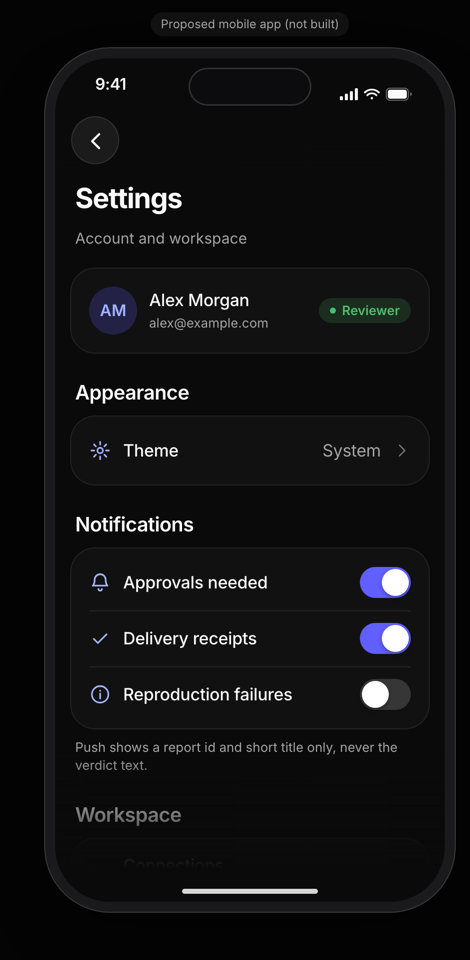
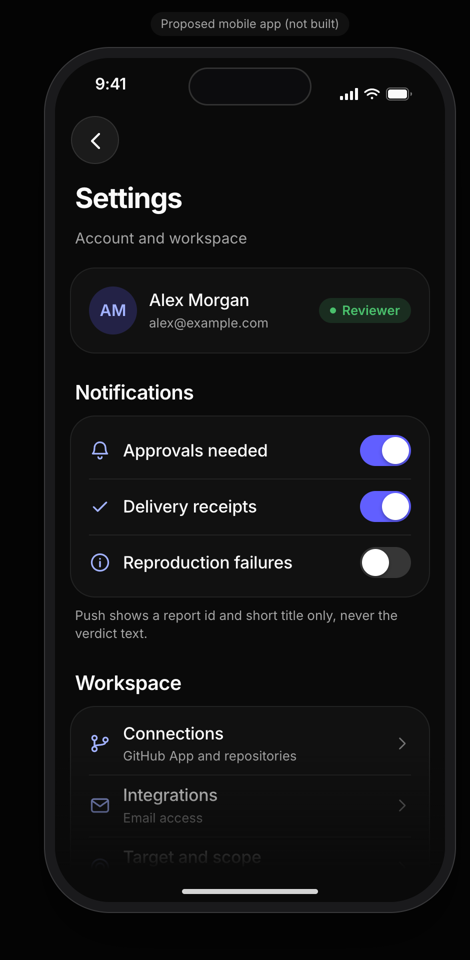
docs(site): describe the mobile app as dark only and drop its theme setting

diff --git a/docs/site/prototype.html b/docs/site/prototype.html
@@ -39,11 +39,7 @@
             box-shadow: 0 0 0 10px #1a1a1c, 0 0 0 11px #3a3a3c, 0 30px 60px rgba(0,0,0,.45); }
   .device.android { border-radius: 38px; box-shadow: 0 0 0 9px #1c1b1f, 0 0 0 10px #3a3940, 0 30px 60px rgba(0,0,0,.45); }
   .device.web { border-radius: 22px; box-shadow: 0 0 0 1px #3a3d45, 0 24px 50px rgba(0,0,0,.45); }
-  .plight .device { background: #fff; box-shadow: 0 0 0 10px #d1d1d6, 0 0 0 11px #aeaeb2, 0 30px 60px rgba(0,0,0,.18); }
-  .plight .device.android { box-shadow: 0 0 0 9px #cac4d0, 0 0 0 10px #938f99, 0 30px 60px rgba(0,0,0,.18); }
-  .plight .device.web { box-shadow: 0 0 0 1px #c4c8d0, 0 24px 50px rgba(0,0,0,.16); }
   .device iframe { position: absolute; inset: 0; width: 390px; height: 844px; border: 0; background: #0f0f10; will-change: transform; }
-  .plight .device iframe { background: #fff; }
   .device .shade { position: absolute; inset: 0; background: #000; opacity: 0; pointer-events: none; z-index: 1; }
   .bar { display: flex; flex-wrap: wrap; justify-content: center; align-items: center; gap: 8px; }
   .bar button { height: 36px; padding: 0 16px; border: 1px solid var(--border); border-radius: 18px; background: var(--card); color: var(--ink); font: 500 14px/1 var(--sans); display: flex; align-items: center; gap: 7px; cursor: pointer; }
@@ -66,7 +62,7 @@
 <body>
 <aside>
   <h1>Prototype</h1>
-  <p>Every mobile screen on iOS and Android, side by side and clickable, with each platform's motion. Tap in either phone and both follow. Haptics show as tags, and the gesture buttons play back swipe, sheet dismissal, pull to refresh, long press and a push notification. Switch on light theme, large text, a screen reader view or a touch target check. Scroll to go through the screens in journey order, or tap buttons, rows, tabs and back buttons to follow the flow.</p>
+  <p>Every mobile screen on iOS and Android, side by side and clickable, with each platform's motion. Tap in either phone and both follow. Haptics show as tags, and the gesture buttons play back swipe, sheet dismissal, pull to refresh, long press and a push notification. Switch on large text, a screen reader view or a touch target check. Scroll to go through the screens in journey order, or tap buttons, rows, tabs and back buttons to follow the flow.</p>
   <div id="list"></div>
 </aside>
 <main class="pane">
@@ -82,8 +78,6 @@
     <button id="replay"><svg viewBox="0 0 24 24"><path d="M4 12a8 8 0 1 0 2.4-5.7L4 8.6M4 4v4.6h4.6"/></svg>Replay</button>
     <button id="hot" aria-pressed="false">Tap targets</button>
     <button id="guides" aria-pressed="false">Spacing guides</button>
-    <span class="sep"></span>
-    <button id="light" aria-pressed="false">Light</button>
   </div>
   <div class="bar"><span class="lbl">Access</span>
     <button id="ax" aria-pressed="false">Large text</button><button id="sr" aria-pressed="false">Screen reader</button><button id="targets" aria-pressed="false">Target check</button>
@@ -129,7 +123,7 @@ const GROUPS = [
     ['m18', 'OTP verify', 'Type six digits and the sixth verifies and opens Settings · Resend code shows a toast'],
   ]],
   ['Settings and public', [
-    ['m19', 'Settings', 'Switches flip · Theme cycles · Terms and Privacy policy open the legal pages · Sign out returns to Sign in · the tab bar switches tabs'],
+    ['m19', 'Settings', 'Switches flip · Terms and Privacy policy open the legal pages · Sign out returns to Sign in · the tab bar switches tabs'],
     ['m22', 'Target and scope', 'Read only · Back returns to Connection detail'],
     ['m23', 'Inbox', 'An Approval needed message opens Sign the verdict · the tab bar switches tabs'],
     ['m20', 'Submit a report', 'Submit report shows a toast and returns to Home · Cancel returns to Home'],
@@ -163,7 +157,7 @@ const INFO_C = {
   m16: 'Email opens Email access · GitHub opens Connections · Back returns to Settings',
   m17: 'Add reviewer appends a pending row · Verify with a code opens the code screen · Back returns to Integrations',
   m18: 'Type six digits and the sixth verifies, shows a toast and returns to Email access · Back returns to Email access',
-  m19: 'Switches flip · Theme cycles · Connections, Integrations and Target and scope open those screens · Privacy and Terms open the legal pages · Sign out returns to Sign in · Back returns to Home',
+  m19: 'Switches flip · Connections, Integrations and Target and scope open those screens · Privacy and Terms open the legal pages · Sign out returns to Sign in · Back returns to Home',
   m22: 'Read only · Back returns to wherever you came from',
   m23: 'A Needs you item opens Sign the verdict · a delivery receipt opens Verdict approved · Back returns to Home',
   m20: 'Fill the fields, pick target material in the sheet, then Submit opens Contact verify · X returns to Sign in',
@@ -180,7 +174,7 @@ const PFS = DEVICE ? [DEVICE] : ['ios', 'android'];
 const DEV = Object.fromEntries(PFS.map(p => [p, document.getElementById('dev-' + p)]));
 const devices = PFS.map(p => DEV[p]);
 const REDUCED = matchMedia('(prefers-reduced-motion: reduce)').matches;
-const opts = { hot: false, guides: false, light: false, ax: false, sr: false, targets: false };
+const opts = { hot: false, guides: false, ax: false, sr: false, targets: false };
 // One design: the Variant C screens in screens/. INFO_C and DEMOS_BY keep their variant keys so a future variant can slot back in.
 const variant = 'c';
 const FOLDER = { c: 'screens' };
@@ -202,7 +196,7 @@ document.getElementById('list').innerHTML = GROUPS.map(([g, items]) => `<h2>${g}
 document.getElementById('list').onclick = e => { const b = e.target.closest('button'); if (b) jump(b.dataset.id); };
 
 let cur = null, busy = false, frames = [], stack = [], curKind = 'push';
-const src = (id, pf) => `${FOLDER[variant]}/${id}.html?embed&platform=${pf}${opts.guides ? '&guides' : ''}${opts.hot ? '&hot' : ''}${opts.light ? '&theme=light' : ''}${opts.ax ? '&text=large' : ''}${opts.sr ? '&sr' : ''}${opts.targets ? '&targets' : ''}`;
+const src = (id, pf) => `${FOLDER[variant]}/${id}.html?embed&platform=${pf}${opts.guides ? '&guides' : ''}${opts.hot ? '&hot' : ''}${opts.ax ? '&text=large' : ''}${opts.sr ? '&sr' : ''}${opts.targets ? '&targets' : ''}`;
 
 // One screen = two iframes (iOS, Android). They load together, then move in together, each with its own platform's transition.
 // kind comes from the tap: push | pop | tab | modal.
@@ -342,9 +336,8 @@ addEventListener('message', e => {
 document.getElementById('prev').onclick = () => step(-1);
 document.getElementById('next').onclick = () => step(1);
 document.getElementById('replay').onclick = () => frames.forEach((f, i) => f.src = src(cur, PFS[i]));
-for (const k of ['hot', 'guides', 'light', 'ax', 'sr', 'targets']) document.getElementById(k).onclick = e => {
+for (const k of ['hot', 'guides', 'ax', 'sr', 'targets']) document.getElementById(k).onclick = e => {
   opts[k] = !opts[k]; e.currentTarget.setAttribute('aria-pressed', opts[k]);
-  if (k === 'light') { e.currentTarget.textContent = opts.light ? 'Dark' : 'Light'; document.body.classList.toggle('plight', opts.light); }
   frames.forEach((f, i) => k === 'hot' ? f.contentWindow.postMessage({ showHot: opts.hot }, '*') : f.src = src(cur, PFS[i]));
 };
 addEventListener('keydown', e => {

diff --git a/docs/site/design-system.html b/docs/site/design-system.html
@@ -68,13 +68,12 @@ const desktopTree = {c:'Design system', n:'Tokens, type, color, mascot\nDark is 
   ]},
 ]};
 const mobileTree = {c:'Design system (mobile)', n:'PROPOSED, NOT BUILT\nVariant C, iOS and Android only\nTokens from screens/c.css', root:true, mid:true, wrap:3, k:[
-  {c:'Color tokens', n:'Brand, phase and destructive match desktop\nSurfaces are a touch lighter in dark\nDark by default, ?theme=light flips them', side:-1, cls:'ref', k:[
-    {c:'Surface', n:'dark  bg 0.145, card 0.178 with a 10% hairline, raised 0.269\nlight bg 0.965, card 1, raised 0.94\nsame card and border as desktop', h:sw('oklch(0.145 0 0)', 'oklch(0.178 0 0)', 'oklch(0.269 0 0)', 'oklch(0.965 0 0)', 'oklch(1 0 0)')},
-    {c:'Ink', n:'dark  fg 0.985, muted 0.72, faint 0.56\nlight fg 0.145, muted 0.5, faint 0.62', h:sw('oklch(0.985 0 0)', 'oklch(0.72 0 0)', 'oklch(0.56 0 0)', 'oklch(0.145 0 0)', 'oklch(0.5 0 0)')},
-    {c:'Brand and destructive', n:'brand oklch(0.585 0.233 277.117)\nbrand-soft 0.785 0.115 274.713 (dark), 0.457 0.24 277 (light)\nred 0.704 0.191 22.216 (dark), 0.577 0.245 27.325 (light)', h:sw('oklch(0.585 0.233 277.117)', 'oklch(0.785 0.115 274.713)', 'oklch(0.704 0.191 22.216)', 'oklch(0.577 0.245 27.325)')},
-    {c:'Phase hues, dark', n:'triaging, reproducing, analysis,\napproval, delivered, closed', h:sw('oklch(0.7 0.15 250)', 'oklch(0.75 0.13 195)', 'oklch(0.72 0.18 330)', 'oklch(0.8 0.15 75)', 'oklch(0.72 0.16 150)', 'oklch(0.55 0 0)')},
-    {c:'Phase hues, light', n:'Darker inks so the pill label reads:\ntriaging 0.52, reproducing 0.55, analysis 0.53,\napproval 0.62, delivered 0.52, closed 0.55', h:sw('oklch(0.52 0.17 250)', 'oklch(0.55 0.13 195)', 'oklch(0.53 0.2 330)', 'oklch(0.62 0.15 75)', 'oklch(0.52 0.15 150)', 'oklch(0.55 0 0)')},
-    {c:'Android tonal', n:'Material 3 tonal surface under the glass pills\ndark  tonal 0.3 0.03 277, active 0.42 0.09 277\nlight tonal 0.92 0.03 277, active 0.84 0.07 277', h:sw('oklch(0.3 0.03 277)', 'oklch(0.42 0.09 277)', 'oklch(0.92 0.03 277)', 'oklch(0.84 0.07 277)')},
+  {c:'Color tokens', n:'Brand, phase and destructive match desktop\nSurfaces are a touch lighter in dark\nDark only on mobile', side:-1, cls:'ref', k:[
+    {c:'Surface', n:'bg 0.145, card 0.178 with a 10% hairline, raised 0.269\nsame card and border as desktop', h:sw('oklch(0.145 0 0)', 'oklch(0.178 0 0)', 'oklch(0.269 0 0)')},
+    {c:'Ink', n:'fg 0.985, muted 0.72, faint 0.56', h:sw('oklch(0.985 0 0)', 'oklch(0.72 0 0)', 'oklch(0.56 0 0)')},
+    {c:'Brand and destructive', n:'brand oklch(0.585 0.233 277.117)\nbrand-soft 0.785 0.115 274.713\nred 0.704 0.191 22.216', h:sw('oklch(0.585 0.233 277.117)', 'oklch(0.785 0.115 274.713)', 'oklch(0.704 0.191 22.216)')},
+    {c:'Phase hues', n:'triaging, reproducing, analysis,\napproval, delivered, closed', h:sw('oklch(0.7 0.15 250)', 'oklch(0.75 0.13 195)', 'oklch(0.72 0.18 330)', 'oklch(0.8 0.15 75)', 'oklch(0.72 0.16 150)', 'oklch(0.55 0 0)')},
+    {c:'Android tonal', n:'Material 3 tonal surface under the glass pills\ntonal 0.3 0.03 277, active 0.42 0.09 277', h:sw('oklch(0.3 0.03 277)', 'oklch(0.42 0.09 277)')},
   ]},
   {c:'Type scale', n:'Inter, Geist Mono for ids and hashes\nAll sizes in rem, so Large text (root 125%) scales them', side:-1, cls:'ref', k:[
     {c:'Screen title', n:'1.75rem (28), 700, tracking -0.03em\nBody is 1.0625rem (17)', h:typeSample('font:700 28px Inter,sans-serif;letter-spacing:-.03em', 'Queue')},

diff --git a/docs/site/accessibility.html b/docs/site/accessibility.html
@@ -92,7 +92,7 @@
 <tr><td>Reduced motion</td><td><code>c.css</code> has a <code>prefers-reduced-motion: reduce</code> block: screen transitions become a short fade and the view-transition animations are dropped. Press feedback is a 120 ms scale to 0.97.</td><td><span class="pill ok">designed</span></td></tr>
 <tr><td>Reduced transparency</td><td>The glass pills, the more menu and sheets drop their blur and use the opaque card color under <code>prefers-reduced-transparency: reduce</code>. On Android the glass is already a flat tonal surface.</td><td><span class="pill ok">designed</span></td></tr>
 <tr><td>Screen reader labels</td><td>Generated by <code>c.js</code>: the tab bar is labelled "Primary", Review next reads "Review next verdict, 3 waiting" (the badge itself is hidden from the reader), the bell reads "Inbox, 2 unread", the more button reads "More, includes Settings", and the first-run button reads "Connect a repository". Back buttons name their destination ("Back to Case file"). The code field reads "Digit 1 of 6" to "Digit 6 of 6", the typing indicator reads "Agent is typing", and the sandbox diagram has a diagram label. Decorative icons are hidden.</td><td><span class="pill mid">partial</span> labels exist in the HTML. No spoken order or toast announcement is defined, and no real screen reader was run. The prototype's Screen reader overlay lists the names it computes</td></tr>
-<tr><td>Phase color and text</td><td>The phase pill is a tinted fill at 16 percent with a full-hue label and a dot, and always names the phase (<code>.pill</code> in <code>c.css</code>). The phase tokens match the desktop ones, with darker inks in light.</td><td><span class="pill ok">met</span> same contrast caveat as the table above</td></tr>
+<tr><td>Phase color and text</td><td>The phase pill is a tinted fill at 16 percent with a full-hue label and a dot, and always names the phase (<code>.pill</code> in <code>c.css</code>). The phase tokens match the desktop dark ones; the mobile app is dark only.</td><td><span class="pill ok">met</span> same contrast caveat as the table above</td></tr>
 <tr><td>Focus</td><td><code>c.css</code> sets one 2 px brand-soft outline with a 2 px offset on <code>:focus-visible</code> for every element, plus a brand ring on fields and the code boxes.</td><td><span class="pill ok">designed</span> for an external keyboard on iPad or Android</td></tr>
 <tr><td>Long press</td><td>A 450 ms press on a report card or row (Home, Queue, Reports) lifts it and opens Open case file, Copy report id, Share and Assign to me. Open case file is the card tap. The case file (M7) repeats Share and, in its case menu, Copy report id and Assign to me, so the gesture is never the only way.</td><td><span class="pill mid">gap</span> a screen reader user needs the gesture's menu as custom actions (<code>accessibilityActions</code>) so the list does not force a trip into each case</td></tr>
 <tr><td>Haptics</td><td>The prototype tags success, warning and selection haptics in the embed only (approve, deny confirm, code complete, switches, chips).</td><td><span class="pill mid">gap</span> extra feedback only, never the sole signal</td></tr>

diff --git a/docs/site/native-ui.html b/docs/site/native-ui.html
@@ -23,7 +23,7 @@ const tree = {c:'Native UI and push', n:'Proposed React Native app, not built, i
     {c:'Long lists', n:'@expo/ui List is native grouped rows, not virtualized\nTimeline and tool calls (M8, M9) use FlatList or FlashList'},
     {c:'Navigation', n:'Expo Router native stack\nRound back button comes from the stack\nParent map matches the mockups'},
     {c:'Sheets', n:'Deny (M11, M13) and target material (M20)\nuse a formSheet: grabber, X, check\nMaterial bottom sheet on Android'},
-    {c:'Tokens', n:'Colors, radius and type scale from screens/c.css\nrem becomes scaled font sizes\nDark by default, light on request'},
+    {c:'Tokens', n:'Colors, radius and type scale from screens/c.css\nrem becomes scaled font sizes\nDark only, no light theme'},
   ]},
   {c:'Tabs and chrome', n:'Three tabs and a separate action', side:-1, cls:'reviewer', h:m('scanning'), k:[
     {c:'NativeTabs', n:'Home M4, Queue M5, Reports M6\nPeers, no slide between them\nFloating glass pill on iOS, toolbar on Android'},
@@ -56,7 +56,7 @@ const tree = {c:'Native UI and push', n:'Proposed React Native app, not built, i
     {c:'M28 Reviewer upload', n:'Segmented control for the source kind\nexpo-document-picker for a tarball or Dockerfile\nBuild started toast, pop to M14'},
   ]},
   {c:'Settings and public', n:'M19 to M25', side:-1, cls:'reporter', h:m('greeting'), k:[
-    {c:'M19 Settings', n:'Opened from the more menu\nSwitch rows for Approvals needed, Delivery receipts,\nReproduction failures\nTheme row cycles System, Light, Dark\nTarget and scope, Privacy, Terms, Sign out'},
+    {c:'M19 Settings', n:'Opened from the more menu\nSwitch rows for Approvals needed, Delivery receipts,\nReproduction failures\nTarget and scope, Privacy, Terms, Sign out'},
     {c:'M20, M21 Submit', n:'Public, no account, no tabs\nM20: form List, target material picker in a formSheet\nM21: six-digit code, Report received in place'},
     {c:'M22 Target and scope', n:'Read-only List with mono values\nPinned image digest and scope rules'},
     {c:'M23 Inbox', n:'Opened from the bell\nNeeds you item opens M11, receipt opens M12'},

diff --git a/docs/site/screens/m19.html b/docs/site/screens/m19.html
@@ -16,7 +16,6 @@
 <h1 class="h1">Settings</h1>
 <div class="hmeta" style="padding-bottom:20px"><span>Account and workspace</span></div>
 <section class="sect"><div class="card list"><div class="item" style="min-height:4.5rem"><span class="av" style="width:48px;height:48px;font-size:1rem">AM</span><span class="main"><span class="t">Alex Morgan</span><span class="s">alex@example.com</span></span><span class="pill c-delivered">Reviewer</span></div></div></section>
-<section class="sect"><div class="sh plain">Appearance</div><div class="card list"><button class="item" type="button" data-theme-cycle style="width:100%"><i data-icon="cog" style="color:var(--brand-soft)"></i><span class="main"><span class="t">Theme</span></span><span class="v" data-theme-val>System</span><i data-icon="chev" style="width:18px;height:18px;color:var(--faint)"></i></button></div></section>
 <section class="sect"><div class="sh plain">Notifications</div><div class="card list">
 <div class="item" data-switch-row><i data-icon="bell" style="color:var(--brand-soft)"></i><span class="main"><span class="t">Approvals needed</span></span><button class="switch" type="button" role="switch" aria-checked="true" aria-label="Approvals needed" data-switch data-haptic="selection"></button></div>
 <div class="item" data-switch-row><i data-icon="check" style="color:var(--brand-soft)"></i><span class="main"><span class="t">Delivery receipts</span></span><button class="switch" type="button" role="switch" aria-checked="true" aria-label="Delivery receipts" data-switch data-haptic="selection"></button></div>

diff --git a/docs/site/screens.html b/docs/site/screens.html
@@ -24,7 +24,7 @@
 <main>
 <span class="tag">Proposed mobile app (not built)</span>
 <h1 style="margin-top:14px">Proposed mobile app - 28 screens for design review (not built)</h1>
-<p>React Native (Expo) reviewer-on-the-go and public-submit experience. Each card opens its screen page, live and interactive (iOS or Android via <code>?platform</code>, light or dark via <code>?theme</code>). The same screens are laid out as a flow on the <a href="mvp-mindmap.html">mobile app flow map</a>.</p>
+<p>React Native (Expo) reviewer-on-the-go and public-submit experience. Each card opens its screen page, live and interactive (iOS or Android via <code>?platform</code>, dark theme only). The same screens are laid out as a flow on the <a href="mvp-mindmap.html">mobile app flow map</a>.</p>
 <div id="groups"></div>
 </main>
 <script>
@@ -61,7 +61,7 @@
       ['m28','Reviewer upload','Tarball, Dockerfile or prebuilt image.'],
     ]],
     ['Settings and public', 'Account, intake and target profile', [
-      ['m19','Settings','Opened from the more menu: account, theme, notifications, workspace.'],
+      ['m19','Settings','Opened from the more menu: account, notifications, workspace.'],
       ['m20','Submit a report','Public upload form, no account needed.'],
       ['m21','Contact verify','Report-scoped one-time code.'],
       ['m22','Target profile','Pinned image and scope rules.'],

diff --git a/docs/site/mvp-mindmap.html b/docs/site/mvp-mindmap.html
@@ -50,7 +50,7 @@ const tree = {c:'BountyDesk mobile', n:'Proposed React Native app, 28 screens, n
     {c:'M28 Reviewer upload', n:"Desktop: reviewer /reports/upload. Tarball, Dockerfile or prebuilt image.", i:'../assets/thumbs/m28', s:'mindmap-thumbs/', url:'screens/m28.html', phone:true},
   ]},
   {c:'Settings and public', n:"Account, intake and target profile", side:1, cls:'reporter', h:m('ingest'), flow:true, k:[
-    {c:'M19 Settings', n:"Desktop: /settings. Opened from the more menu: account, theme, notifications, workspace.", i:'../assets/thumbs/m19', s:'mindmap-thumbs/', url:'screens/m19.html', phone:true},
+    {c:'M19 Settings', n:"Desktop: /settings. Opened from the more menu: account, notifications, workspace.", i:'../assets/thumbs/m19', s:'mindmap-thumbs/', url:'screens/m19.html', phone:true},
     {c:'M20 Submit a report', n:"Desktop: /submit. Public upload form.", i:'../assets/thumbs/m20', s:'mindmap-thumbs/', url:'screens/m20.html', phone:true},
     {c:'M21 Contact verify', n:"Desktop: /submit. Report-scoped one-time code.", i:'../assets/thumbs/m21', s:'mindmap-thumbs/', url:'screens/m21.html', phone:true},
     {c:'M22 Target profile', n:"Desktop: target profile. Pinned image and scope rules.", i:'../assets/thumbs/m22', s:'mindmap-thumbs/', url:'screens/m22.html', phone:true},

diff --git a/docs/site/screens/c.js b/docs/site/screens/c.js
@@ -444,21 +444,6 @@
     input.addEventListener('keydown', e => { if (e.key === 'Enter') { e.preventDefault(); submit(); } });
   }
 
-  // ---------- theme row ----------
-  const themeRow = $('[data-theme-cycle]');
-  if (themeRow) {
-    const val = $('[data-theme-val]', themeRow), order = ['system', 'light', 'dark'], label = { system: 'System', light: 'Light', dark: 'Dark' };
-    let cur = q.get('theme') === 'light' ? 'light' : q.get('theme') === 'dark' ? 'dark' : 'system';
-    val.textContent = label[cur];
-    themeRow.addEventListener('click', () => {
-      cur = order[(order.indexOf(cur) + 1) % order.length];
-      val.textContent = label[cur]; root.classList.toggle('light', cur === 'light'); hap('selection');
-      const u = new URL(location.href);
-      if (cur === 'system') { u.searchParams.delete('theme'); q.delete('theme'); } else { u.searchParams.set('theme', cur); q.set('theme', cur); }
-      history.replaceState(null, '', u);
-    });
-  }
-
   // reduced motion can change at runtime; the sheet reads it on every open
   window.bdKit = { hap, toast, go, back };
 })();

diff --git a/docs/site/app-structure.html b/docs/site/app-structure.html
@@ -99,7 +99,7 @@ const mobileTree = {c:'App structure (mobile)', n:'PROPOSED, NOT BUILT\nExpo Rou
     {c:'case/[id]', n:'Renders m7, the case file\nRows open the timeline (m8), tool calls (m9)\nand the sandbox view (m26)'},
     {c:'sign/[id]', n:'Renders m11, sign the verdict\nDeny is a formSheet over it (m13), done is m12\nPush tap can open it directly'},
     {c:'inbox', n:'Renders m23, opened from the bell\nNeeds you, then earlier events\nApproval needed, delivery receipt'},
-    {c:'settings', n:'Renders m19, opened from the more menu\nSwitches, theme, Terms (m25),\nPrivacy (m24), Sign out'},
+    {c:'settings', n:'Renders m19, opened from the more menu\nSwitches, Terms (m25),\nPrivacy (m24), Sign out'},
     {c:'chat/[id]', n:'Renders m10, reviewer chat\nBubbles, chips, composer'},
     {c:'connections', n:'Renders m14, with m15 for one install\nand m22, the target profile\nOnboarding (m27) and reviewer upload (m28)\nopen from m14'},
     {c:'integrations', n:'Renders m16\nEmail access is m17, the six digit\nverify step is m18'},

diff --git a/docs/site/native-feel.html b/docs/site/native-feel.html
@@ -67,7 +67,7 @@ const tree = {c:'Native feel', n:'Proposed mobile app, not built\nHow the 28 Var
     {c:'iOS', n:'Glass pills: blur 24 px, saturate 180 percent\nFloating tab pill and a round Review next\nMaps to NativeTabs and SwiftUI through @expo/ui'},
     {c:'Android Material 3', n:'Tonal surfaces in place of blur\nTab pill becomes a floating toolbar\nReview next is a 16 dp FAB\nMaps to Jetpack Compose'},
     {c:'Toast', n:'Pill above the nav, two seconds\nAndroid: 8 radius snackbar style'},
-    {c:'Theme (M19)', n:'Theme row cycles System, Light, Dark\nDark is the default'},
+    {c:'Theme (M19)', n:'Dark only, no theme setting'},
     {c:'Phase pills', n:'Approval, Reproducing, Analysis, Triaging,\nDelivered and Closed use the desktop hues'},
     {c:'Phones on the web', n:'Not part of this app\nPhones use the responsive desktop app\nLanding, sign-in and submit checked at 390 px;\nreviewer pages behind sign-in not checked'},
   ]},

diff --git a/docs/site/screens/platform.js b/docs/site/screens/platform.js
@@ -1,9 +1,8 @@
-// Variant C: reads ?platform=ios|android|web and ?theme=light|dark, sets pf-* and light classes on <html>.
+// Variant C: reads ?platform=ios|android|web, sets the pf-* class on <html>. The mobile app is dark only, so ?theme is ignored.
 // Load synchronously in <head> so the classes exist before first paint. iOS (default) adds only an inert pf-ios class.
 const q = new URLSearchParams(location.search), r = document.documentElement, p = q.get('platform');
 const pf = p === 'android' || p === 'web' ? p : 'ios';
 r.classList.add('pf-' + pf);
-if (q.get('theme') === 'light') r.classList.add('light');
 if (q.get('text') === 'large') r.classList.add('text-large');   // type is in rem, so this scales the whole screen
 // ?embed: the prototype page draws the device, so the screen drops its own frame. Options come from the URL.
 if (q.has('embed')) {

diff --git a/docs/site/screens/c.css b/docs/site/screens/c.css
@@ -95,7 +95,6 @@
    data-otp (+ data-otp-done="Verified" data-then="m17.html" data-kind="pop" | data-otp-show="#received")  six boxes, auto-advance, paste
    data-chat-thread, data-chat-input, data-chat-send   composer appends a bubble and an agent reply
    data-add-reviewer (button) + data-add-input + data-reviewer-list   appends a pending reviewer row
-   data-theme-cycle        row cycling System, Light, Dark; child [data-theme-val] shows the value
    data-auto-go="mN.html"  standalone only: navigate after data-auto-ms (default 1600); ignored in embed
    ============================================================ */
 @import url("https://fonts.googleapis.com/css2?family=Inter:wght@400;500;600;700&family=Geist+Mono:wght@400;500&display=swap");
